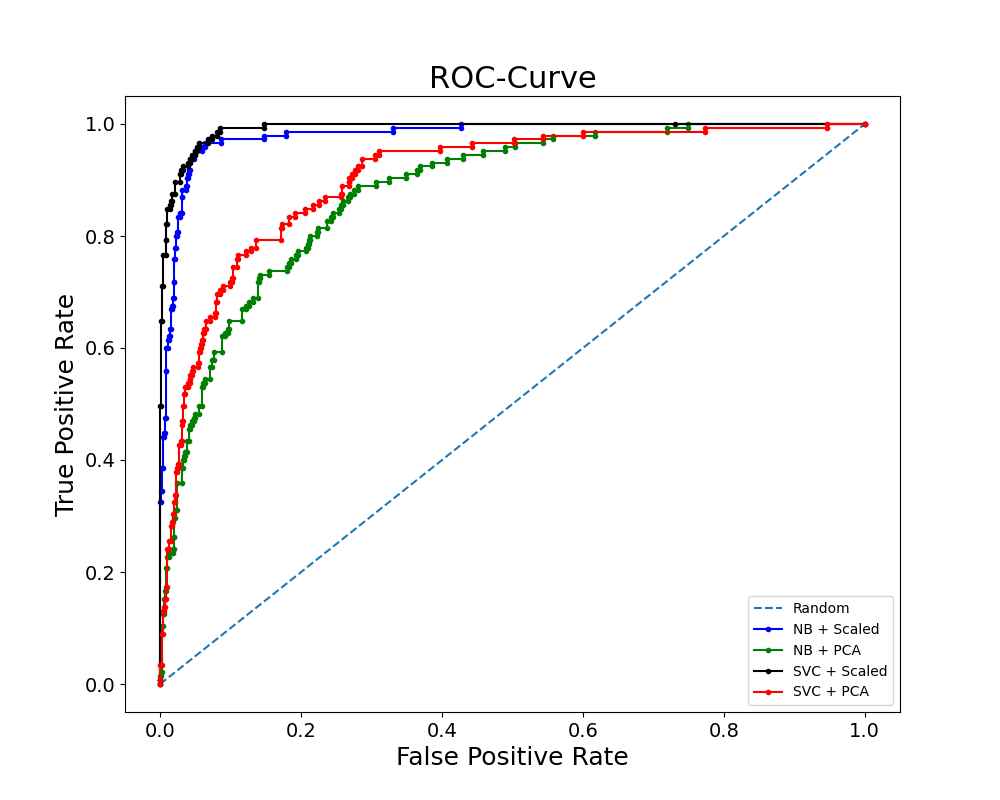
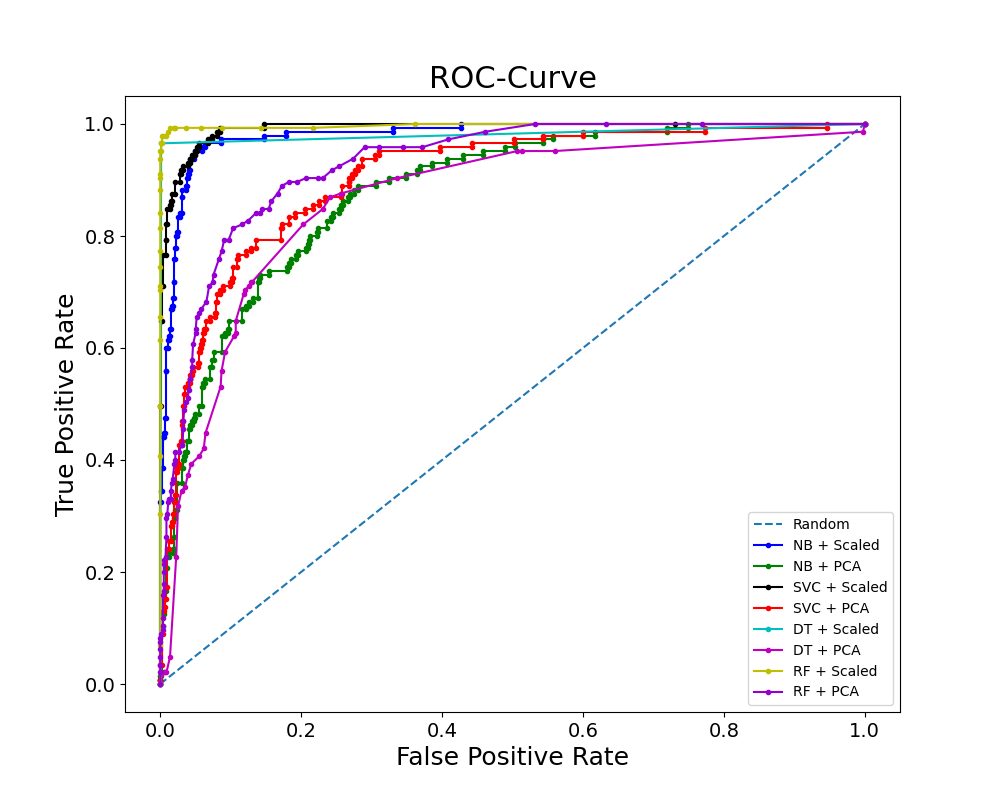
updated code to include decision trees and random forest

diff --git a/src/models/train_nb_svc_models.py b/src/models/train_nb_svc_models.py
@@ -1,9 +1,10 @@
 """
-Title: Binary Classification - Naive Bayes and Support Vector Machine
-Author: Christoph Metzner
+Title: Binary Classification - Naive Bayes, Support Vector Machine, Decision Tree, and Random Forest
+Author: Christoph Metzner and Katie Knight
 
-This file contains source code to perform a binary classification using the machine learning algorithms naive bayes
-and support vector machine. The classification is performed on normalized data and data with reduced dimensions using
+This file contains source code to perform a binary classification using the machine learning algorithms naive bayes, 
+support vector machine, Decision Tree, and Random Forest 
+The classification is performed on normalized data and data with reduced dimensions using
 principal component analysis.
 
 """
@@ -27,6 +28,8 @@ from sklearn.model_selection import GridSearchCV
 # ML-Classification Algorithms
 from sklearn.naive_bayes import GaussianNB
 from sklearn.svm import SVC
+from sklearn.tree import DecisionTreeClassifier
+from sklearn.ensemble import RandomForestClassifier
 
 # use pickle to save trained model
 from utils import save_model
@@ -62,6 +65,28 @@ def init_classifier(clf_v: str) -> Tuple[SklearnClassifier, Dict[str, int]]:
           {'C': [1, 10, 100, 1000], 'kernel': ['linear']},
           {'C': [1, 10, 100, 1000], 'gamma': [0.1, 0.01, 0.001, 0.0001], 'kernel': ['rbf']},
          ]
+
+    elif clf_v == 'dt':
+        clf = DecisionTreeClassifier(random_state=seed)
+        param_grid = [
+          {'ccp_alpha': [0.0, 1.0, 1.5, 2.0]},
+          {'criterion': ['gini', 'entropy']},
+          {'max_features': [None, 'auto', 'sqrt', 'log2']},
+          {'max_leaf_nodes': (list(range(2, 100)))},
+          {'splitter': ['best', 'random']}
+        ]
+
+    elif clf_v == 'rf':
+        clf = RandomForestClassifier()
+        param_grid = [
+          {'n_estimators': [200, 400, 600, 800, 1000, 1200, 1400, 1600, 1800, 2000]},
+          {'bootstrap': [True, False]},
+          {'max_features': ['auto', 'sqrt']},
+          {'max_depth': [10, 20, 30, 40, 50, 60, 70, 80, 90, 100, 110, None]},
+          {'min_samples_leaf': [1, 2, 3, 4]},
+          {'min_samples_split': [2, 4, 6, 8, 10]}
+        ]
+
 
     return clf, param_grid
 

diff --git a/src/main.py b/src/main.py
@@ -34,9 +34,30 @@ def main():
     svc_results_pca, svc_pca_y_pred_proba = predict_model(X_test=X_test_pca, y_test=y_test, clf_v='svc', pca=True)
     print(svc_results_pca)
 
+    # train decision tree classifier with scaled data
+    clf_dt = train_model(X_train=X_train_scaled, y_train=y_train, clf_v='dt', cv_m=5, pca=False)
+    dt_results, dt_y_pred_proba = predict_model(X_test=X_test_scaled, y_test=y_test, clf_v='dt', pca=False)
+    print(dt_results)
+
+    # train decision tree classifier with scaled + pca data
+    clf_dt_pca = train_model(X_train=X_train_pca, y_train=y_train, clf_v='dt', cv_m=5, pca=True)
+    dt_results_pca, dt_pca_y_pred_proba = predict_model(X_test=X_test_pca, y_test=y_test, clf_v='dt', pca=True)
+    print(dt_results_pca)
+
+    # train random forest classifier with scaled data
+    clf_rf = train_model(X_train=X_train_scaled, y_train=y_train, clf_v='rf', cv_m=5, pca=False)
+    rf_results, rf_y_pred_proba = predict_model(X_test=X_test_scaled, y_test=y_test, clf_v='rf', pca=False)
+    print(rf_results)
+
+    # train random forest classifier with scaled + pca data
+    clf_rf_pca = train_model(X_train=X_train_pca, y_train=y_train, clf_v='rf', cv_m=5, pca=True)
+    rf_results_pca, rf_pca_y_pred_proba = predict_model(X_test=X_test_pca, y_test=y_test, clf_v='rf', pca=True)
+    print(rf_results_pca)
+
     # plot ROC-Curve
-    y_pred_probas = [nb_y_pred_proba, nb_pca_y_pred_proba, svc_y_pred_proba, svc_pca_y_pred_proba]
-    clfs_names = ['NB + Scaled', 'NB + PCA', 'SVC + Scaled', 'SVC + PCA']
+    y_pred_probas = [nb_y_pred_proba, nb_pca_y_pred_proba, svc_y_pred_proba, svc_pca_y_pred_proba, 
+      dt_y_pred_proba, dt_pca_y_pred_proba, rf_y_pred_proba, rf_pca_y_pred_proba]
+    clfs_names = ['NB + Scaled', 'NB + PCA', 'SVC + Scaled', 'SVC + PCA', 'DT + Scaled', 'DT + PCA', 'RF + Scaled', 'RF + PCA']
     plot_roc_curve(y_test=y_test, y_pred_probas=y_pred_probas, clfs_names=clfs_names)
 
 if __name__ == "__main__":

diff --git a/src/visualization_class_results.py b/src/visualization_class_results.py
@@ -32,7 +32,7 @@ def plot_roc_curve(y_test: List[int], y_pred_probas: List[List[float]], clfs_nam
     plt.plot(random_fpr, random_tpr, linestyle='--', label='Random')
 
     # For the models
-    colors = ['b', 'g', 'k', 'r']
+    colors = ['b', 'g', 'k', 'r', 'c', 'm', 'y', 'darkviolet']
     for i in range(len(y_pred_probas)):
         model_fpr, model_tpr, _ = roc_curve(y_test, y_pred_probas[i][:, 1])
         plt.plot(model_fpr, model_tpr, marker='.', label=clfs_names[i], color=colors[i])
